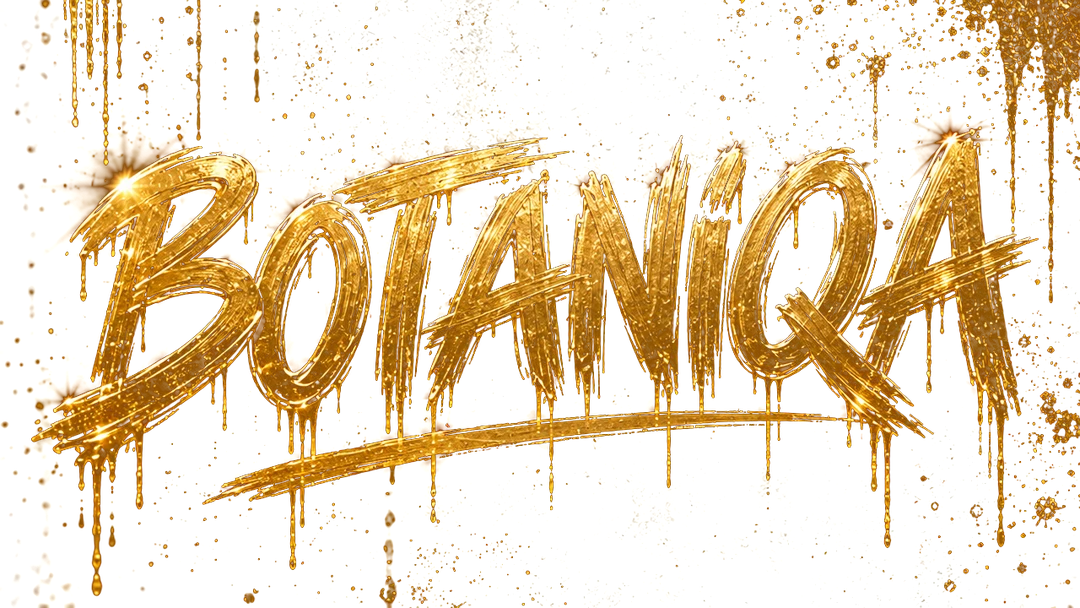
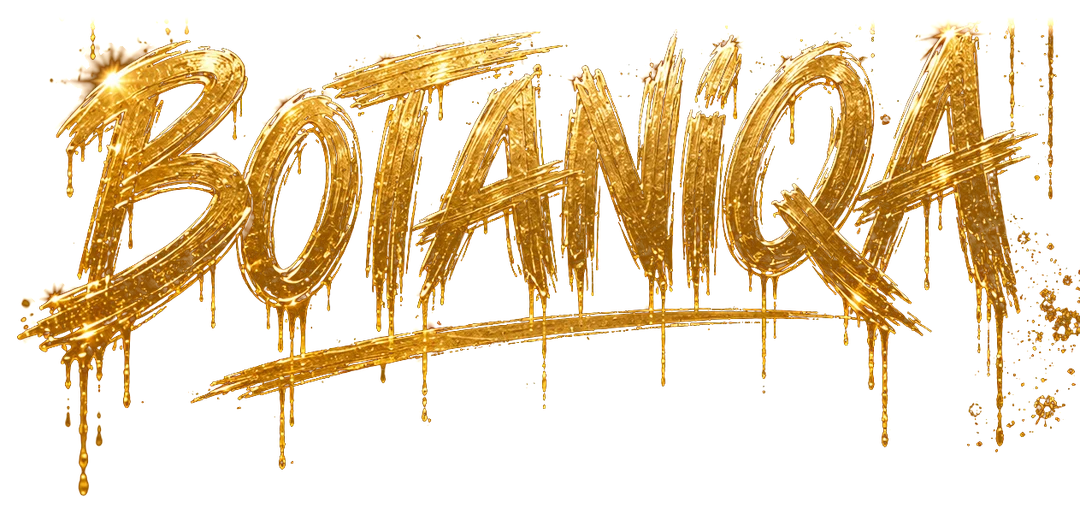
fix: BOTANIQA arany felirat tisztitva (hatter-textura, szort szikrak es felso csurgasok ki), arany .47, ?v=6

diff --git a/index.html b/index.html
@@ -691,7 +691,7 @@ h1,h2,h3,.slogan__txt,.band__fig,.flav b,.flyer figcaption,.nav__brand,.foot__h{
 .landing{--bw:min(24vw,400px)}
 @media(min-width:768px){
   .slogan__img--bota{width:var(--bw)}
-  .half__content--bota{bottom:auto;top:calc((100svh - clamp(2.4rem,8svh,5.5rem) - var(--pw) / 1.7768 - 16px - var(--bw) * .5625) / 2)}
+  .half__content--bota{bottom:auto;top:calc((100svh - clamp(2.4rem,8svh,5.5rem) - var(--pw) / 1.7768 - 16px - var(--bw) * .47) / 2)}
 }
 @media(min-width:768px) and (max-width:1023px){.landing{--bw:min(30vw,300px)}}
 /* 9% SAV (David 10-01): a sav a kep teljes magassagat mutatja (1672x941, nincs fent-lent vagas), a festett SPIRANTE felirat
@@ -797,7 +797,7 @@ h1,h2,h3,.slogan__txt,.band__fig,.flav b,.flyer figcaption,.nav__brand,.foot__h{
     <div class="half__bed half__bed--bota" aria-hidden="true"></div>
     <div class="half__scrim" aria-hidden="true"></div>
     <div class="half__content half__content--bota">
-      <img class="slogan__img slogan__img--bota" src="media/slogan-botaniqa-arany-1080.webp?v=5" srcset="media/slogan-botaniqa-arany-720.webp?v=5 720w, media/slogan-botaniqa-arany-1080.webp?v=5 1080w, media/slogan-botaniqa-arany.webp?v=5 1200w" sizes="(max-width:767px) 46vw, 410px" width="1200" height="675" decoding="async" alt="BOTANIQA">
+      <img class="slogan__img slogan__img--bota" src="media/slogan-botaniqa-arany-1080.webp?v=6" srcset="media/slogan-botaniqa-arany-720.webp?v=6 720w, media/slogan-botaniqa-arany-1080.webp?v=6 1080w, media/slogan-botaniqa-arany.webp?v=6 1200w" sizes="(max-width:767px) 46vw, 410px" width="1200" height="564" decoding="async" alt="BOTANIQA">
     </div>
     <figure class="half__poster half__poster--bota">
       <picture>
